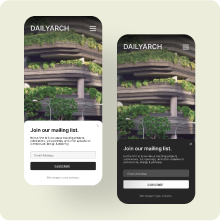
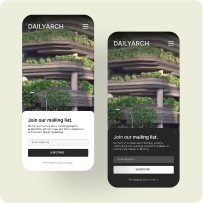
redid scaling and font sizes

diff --git a/components/sections/About/index.js b/components/sections/About/index.js
@@ -16,7 +16,7 @@ const About = () => {
       initial={{ opacity: 0 }}
       animate={{ opacity: 1 }}
       transition={{ delay: 0.2, duration: 0.5 }}
-      className="full-width-section mt-48"
+      className="full-width-section mt-24"
       id="about"
     >
       <Row>
@@ -27,11 +27,11 @@ const About = () => {
       <Row
         sl={2}
         el={14}
-        className="content-box md:px-20 py-24 rounded-[2rem] bg-grey text-dark-grey"
+        className="content-box md:px-20 py-16 rounded-[2rem] bg-grey text-dark-grey"
       >
-        <div className="flex flex-col items-start gap-8 md:flex-row justify-between">
-          <div className="flex flex-col gap-16">
-            <div className="flex flex-col gap-4">
+        <div className="flex flex-col items-center gap-8 md:flex-row justify-between">
+          <div className="flex flex-col gap-8">
+            <div className="flex flex-col gap-1">
               <motion.h3
                 initial={{ opacity: 0 }}
                 whileInView={{ opacity: 1 }}
@@ -39,7 +39,7 @@ const About = () => {
                 transition={{ duration: 0.5 }}
                 className="subtitle2"
               >
-                I{"'"}m Anna
+                A listener first, designer after
               </motion.h3>
               <motion.p
                 initial={{ opacity: 0 }}
@@ -48,12 +48,13 @@ const About = () => {
                 transition={{ duration: 0.5 }}
                 className="b1"
               >
-                a Sydney based designer currently enjoying the challenges of
-                problem solving and strategising ways to empower people through
-                design.
+                In my typical process, I combine data, research and empathy to
+                drive design outcomes. Currently, my strengths lie in
+                strategising concepts, to designing intuitive and accessible
+                interfaces.
               </motion.p>
             </div>
-            <div className="flex flex-col gap-4">
+            <div className="flex flex-col gap-1">
               <div className="flex items-center gap-4">
                 <motion.h3
                   initial={{ opacity: 0 }}
@@ -73,8 +74,8 @@ const About = () => {
                 className="b1"
                 id="hi"
               >
-                you will usually find me at the gym, reading on psychology or
-                making an iced matcha espresso.
+                You will usually find me at the gym, reading on psychology or
+                making an iced matcha espresso (even in winter)!
               </motion.p>
             </div>
           </div>
@@ -83,9 +84,9 @@ const About = () => {
             whileInView={{ opacity: 1 }}
             viewport={{ once: true, amount: 0.2 }}
             transition={{ duration: 0.5 }}
-            className="hidden md:block min-w-[412px] min-h-[343px]"
+            className="hidden md:block min-w-[244px] min-h-[335px]"
           >
-            <Image src={uiStaticTags}></Image>
+            <Image src={uiStaticTags} width={244} height={335}></Image>
           </motion.div>
           <motion.div
             initial={{ opacity: 0 }}

diff --git a/components/sections/Hero/index.js b/components/sections/Hero/index.js
@@ -12,7 +12,7 @@ const Hero = () => {
     "text-dark-grey relative inline-block after:block after:h-[30%] after:w-[112%] after:bg-primary after:bg-opacity-25 after:absolute after:inset-x-[-6%] after:inset-y-[75%] after:rounded-full after:-z-10";
 
   return (
-    <div className="full-width-section mt-12 2xl:mt-20 text-center">
+    <div className="full-width-section mt-16 2xl:mt-20 text-center">
       <Row ss={1} es={7} sm={1} em={11} el={1} sl={15}>
         <motion.h1
           initial={{ opacity: 0 }}
@@ -24,16 +24,6 @@ const Hero = () => {
           <br />
           a&nbsp;&nbsp;<span className={highlight}>product designer</span>
         </motion.h1>
-      </Row>
-      <Row ss={1} es={7} sm={1} em={11} el={1} sl={15}>
-        <motion.p
-          initial={{ opacity: 0 }}
-          animate={{ opacity: 1 }}
-          transition={{ delay: 0.3, duration: 0.3 }}
-          className="subtitle3 mt-8 text-text-dark-grey"
-        >
-          a listener first, designer after
-        </motion.p>
       </Row>
       <Row
         ss={1}
@@ -48,7 +38,7 @@ const Hero = () => {
           initial={{ opacity: 0 }}
           animate={{ opacity: 1 }}
           transition={{ delay: 0.45, duration: 0.3 }}
-          className="w-full max-w-[1100px]"
+          className="w-full max-w-[900px]"
         >
           <Carousel></Carousel>
         </motion.div>

diff --git a/components/sections/Footer/index.js b/components/sections/Footer/index.js
@@ -7,7 +7,7 @@ import { motion } from "framer-motion";
 const Footer = () => {
   return (
     <div
-      className="full-width-section flex flex-col text-white items-center mt-48 pt-8 mx-[-2.2rem] md:m-0 md:mb-4 rounded-t-[3rem]"
+      className="full-width-section flex flex-col text-white items-center mt-24 mx-[-2.2rem] md:m-0 md:mb-4 rounded-t-[3rem]"
       id="contact"
     >
       <motion.div
@@ -17,7 +17,9 @@ const Footer = () => {
         transition={{ duration: 0.5 }}
         className="flex flex-row gap-12 my-8 items-end w-full justify-between"
       >
-        <div className="invisible pl-24">© Anna He, 2022</div>
+        <div className="invisible pl-24">
+          © 2022 Anna He. All rights reserved.
+        </div>
         <div className="flex gap-8 items-center">
           <Dribbble></Dribbble>
           <LinkedIn></LinkedIn>
@@ -32,7 +34,7 @@ const Footer = () => {
           transition={{ duration: 0.5 }}
           className="btn text-text-dark-grey justify-self-end pr-24"
         >
-          © Anna He, 2022
+          © 2022 Anna He. All rights reserved.
         </motion.p>
       </motion.div>
     </div>

diff --git a/tailwind.config.js b/tailwind.config.js
@@ -15,33 +15,16 @@ module.exports = {
       ],
       h2: ["3.375rem", { lineHeight: "120%", fontWeight: 500 }],
       subtitle: [
-        "2.25rem",
-        {
-          lineHeight: "140%",
-          fontWeight: 500,
-        },
-      ],
-      subtitle2: [
         "1.75rem",
         {
-          lineHeight: "140%",
+          lineHeight: "200%",
           fontWeight: 500,
-        },
-      ],
-      subtitle3: [
-        "1.375rem",
-        {
-          lineHeight: "120%",
-          fontWeight: 500,
-          letterSpacing: "0.1875rem",
         },
       ],
       b1: ["1.125rem", { lineHeight: "200%" }],
-      b2: ["1rem", { lineHeight: "120%" }],
-      btn: [
-        "1rem",
-        { lineHeight: "140%", fontWeight: 500, letterSpacing: "0.0625rem" },
-      ],
+      b2: ["1rem", { lineHeight: "200%" }],
+      tabs: ["1rem", { lineHeight: "140%", fontWeight: 500 }],
+      caption: ["0.8125rem"],
     },
     colors: {
       primary: "#AFBCFF",

diff --git a/components/sections/Projects/ProjectItem.js b/components/sections/Projects/ProjectItem.js
@@ -6,14 +6,14 @@ const ProjectItem = ({ subtitle, description, image, skills, bg }) => {
     return (
       <div
         key={uuidv4()}
-        className="b2 bg-white rounded-full px-4 py-2 lg:px-8 lg:py-4"
+        className="b2 bg-white rounded-full caption px-4 py-2 lg:px-6 lg:py-2"
       >
         {skill}
       </div>
     );
   });
 
-  const styling = `max-w-[500px] h-full ${bg} rounded-[2rem] flex flex-col justify-between`;
+  const styling = `max-w-[432px] h-full ${bg} rounded-[2rem] flex flex-col justify-between`;
 
   return (
     <motion.div
@@ -23,7 +23,7 @@ const ProjectItem = ({ subtitle, description, image, skills, bg }) => {
       transition={{ duration: 0.5 }}
       className={styling}
     >
-      <div className="p-12 pb-4">
+      <div className="p-10 py-4">
         <motion.p
           initial={{ opacity: 0 }}
           whileInView={{ opacity: 1 }}

diff --git a/styles/globals.css b/styles/globals.css
@@ -31,7 +31,7 @@
     @apply font-general;
     @apply bg-bg;
     @apply text-[#333333];
-    @apply text-[13px] md:text-[14px] 2xl:text-[16px];
+    @apply text-[14px] md:text-[15px] xl:text-[16px];
     font-weight: 400;
     min-height: 100%;
     scroll-behavior: smooth;
@@ -46,7 +46,7 @@
   }
 
   h2 {
-    @apply text-subtitle md:text-h2;
+    @apply text-h2;
   }
 
   .subtitle {
@@ -54,15 +54,15 @@
   }
 
   .subtitle2 {
-    @apply text-subtitle2;
+    @apply text-subtitle;
   }
 
   .subtitle3 {
-    @apply text-subtitle3;
+    @apply text-subtitle;
   }
 
   .btn {
-    @apply text-btn;
+    @apply text-tabs;
   }
 
   .b1 {
@@ -71,6 +71,10 @@
 
   .b2 {
     @apply text-b2;
+  }
+
+  .caption {
+    @apply text-caption;
   }
 }
 

diff --git a/components/sections/Projects/index.js b/components/sections/Projects/index.js
@@ -35,7 +35,7 @@ const Projects = () => {
     "text-dark-grey relative inline-block after:block after:h-[30%] after:w-[106%] after:bg-primary after:bg-opacity-25 after:absolute after:inset-x-[-3%] after:inset-y-[75%] after:rounded-full after:-z-10";
 
   return (
-    <div className="full-width-section mt-48" id="projects">
+    <div className="full-width-section mt-24" id="projects">
       <Row>
         <h2 className="text-center text-text-dark-grey mb-16">
           <span className={highlight}>Recent Projects</span>
